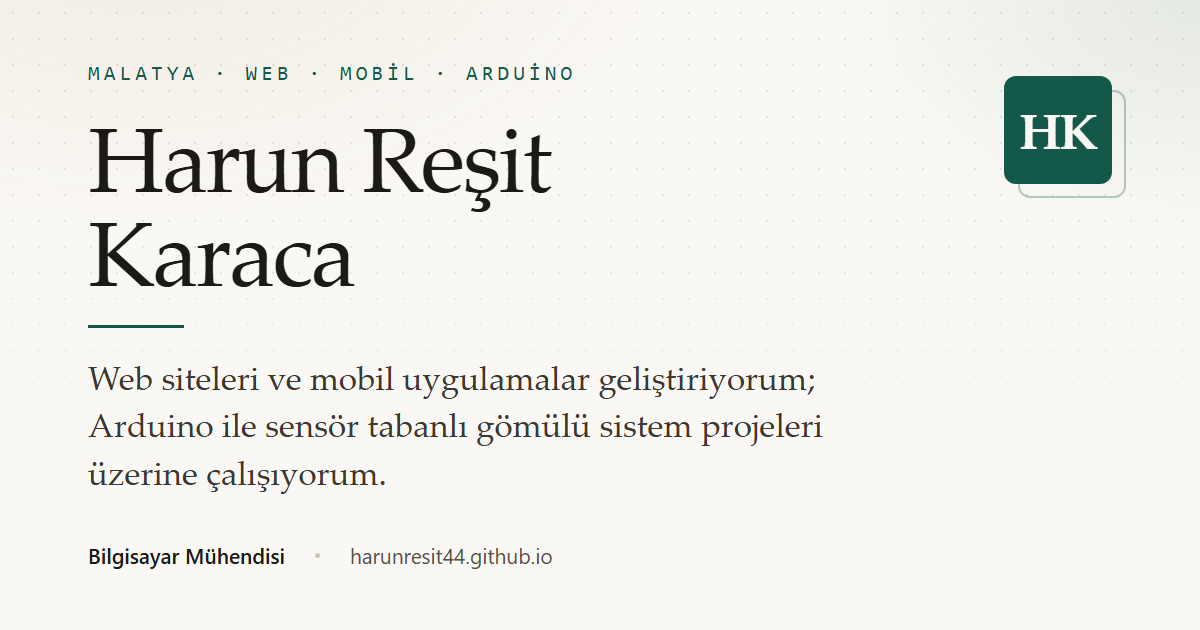
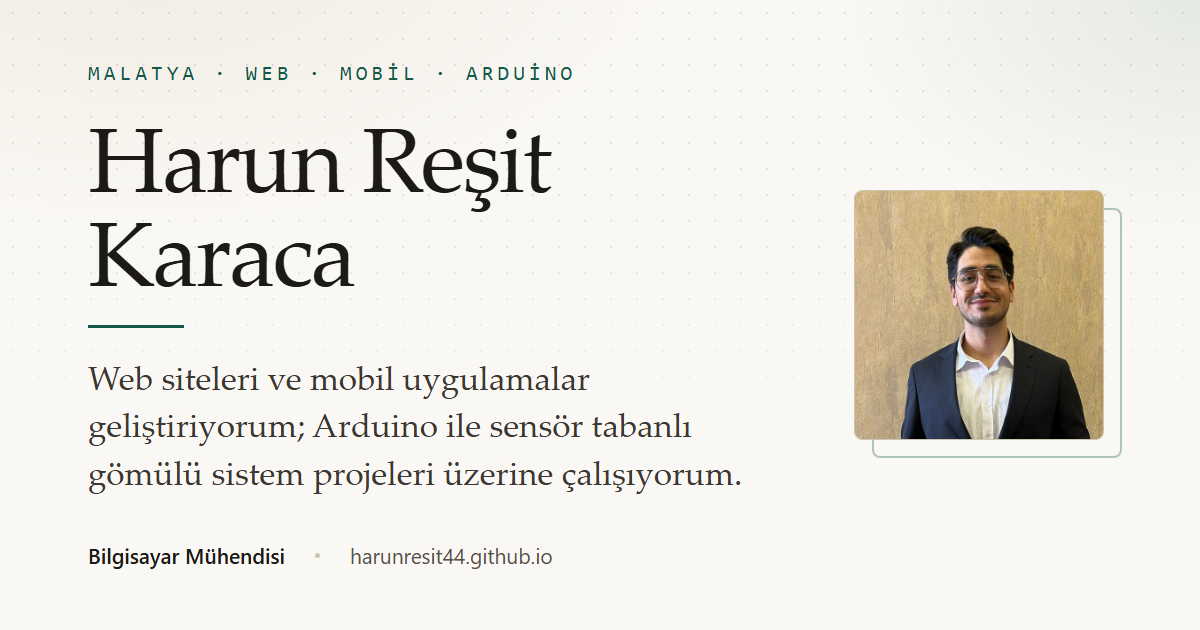
Profil fotoğrafı ekle ve print-only hatasını düzelt
- assets/profile.jpg: ham fotoğraftan yüz/omuz hizasında kare kırpma
  (560x560, 89 KB). data.js içindeki profile.photo bağlandı.
- og-image: monogram yerine fotoğraf kullanıldı.
- Ham fotoğraf (Ben_profil.jpeg) .gitignore'a alındı; 640 KB'lık
  kırpılmamış hali herkese açık depoda durmasın.

Hata: e-posta adresi hero'da ekranda görünüyordu. .print-only kuralı
display:none veriyor ama .hero__meta span iki sınıflı olduğu için daha
yüksek özgüllükte ve onu eziyordu. !important eklendi; adres artık
sadece yazdırma çıktısında görünüyor.

Changed region(s): [[0.7092, 0.1206, 0.9558, 0.754], [0.0617, 0.6333, 0.6783, 0.7841], [0.4933, 0.573, 0.6783, 0.6333]]

diff --git a/css/styles.css b/css/styles.css
@@ -213,9 +213,12 @@ ul {
   color: var(--accent-contrast);
 }
 
-/* Ekranda gizli, sadece yazdırma/PDF çıktısında görünen ögeler */
+/* Ekranda gizli, sadece yazdırma/PDF çıktısında görünen ögeler.
+   !important şart: .hero__meta span gibi iki sınıflı seçiciler
+   daha yüksek özgüllükte olduğu için bu kuralı eziyordu ve
+   e-posta adresi ekranda da görünüyordu. */
 .print-only {
-  display: none;
+  display: none !important;
 }
 
 /* Sayfa sonundaki SVG simge deposu — görünmez, yer kaplamaz */

diff --git a/js/data.js b/js/data.js
@@ -38,7 +38,7 @@ const DATA = {
        Fotoğrafını assets/ klasörüne kopyalayıp buraya dosya yolunu yaz:
        photo: "assets/profile.jpg"
        null bırakırsan monogram görünmeye devam eder. */
-    photo: null,
+    photo: "assets/profile.jpg",
     /* Hero'da isminin üstünde küçük bir etiket çıkar.
        Örn: { tr: "Yeni fırsatlara açık", en: "Open to new opportunities" }
        İstemiyorsan null bırak, etiket hiç görünmez. */
